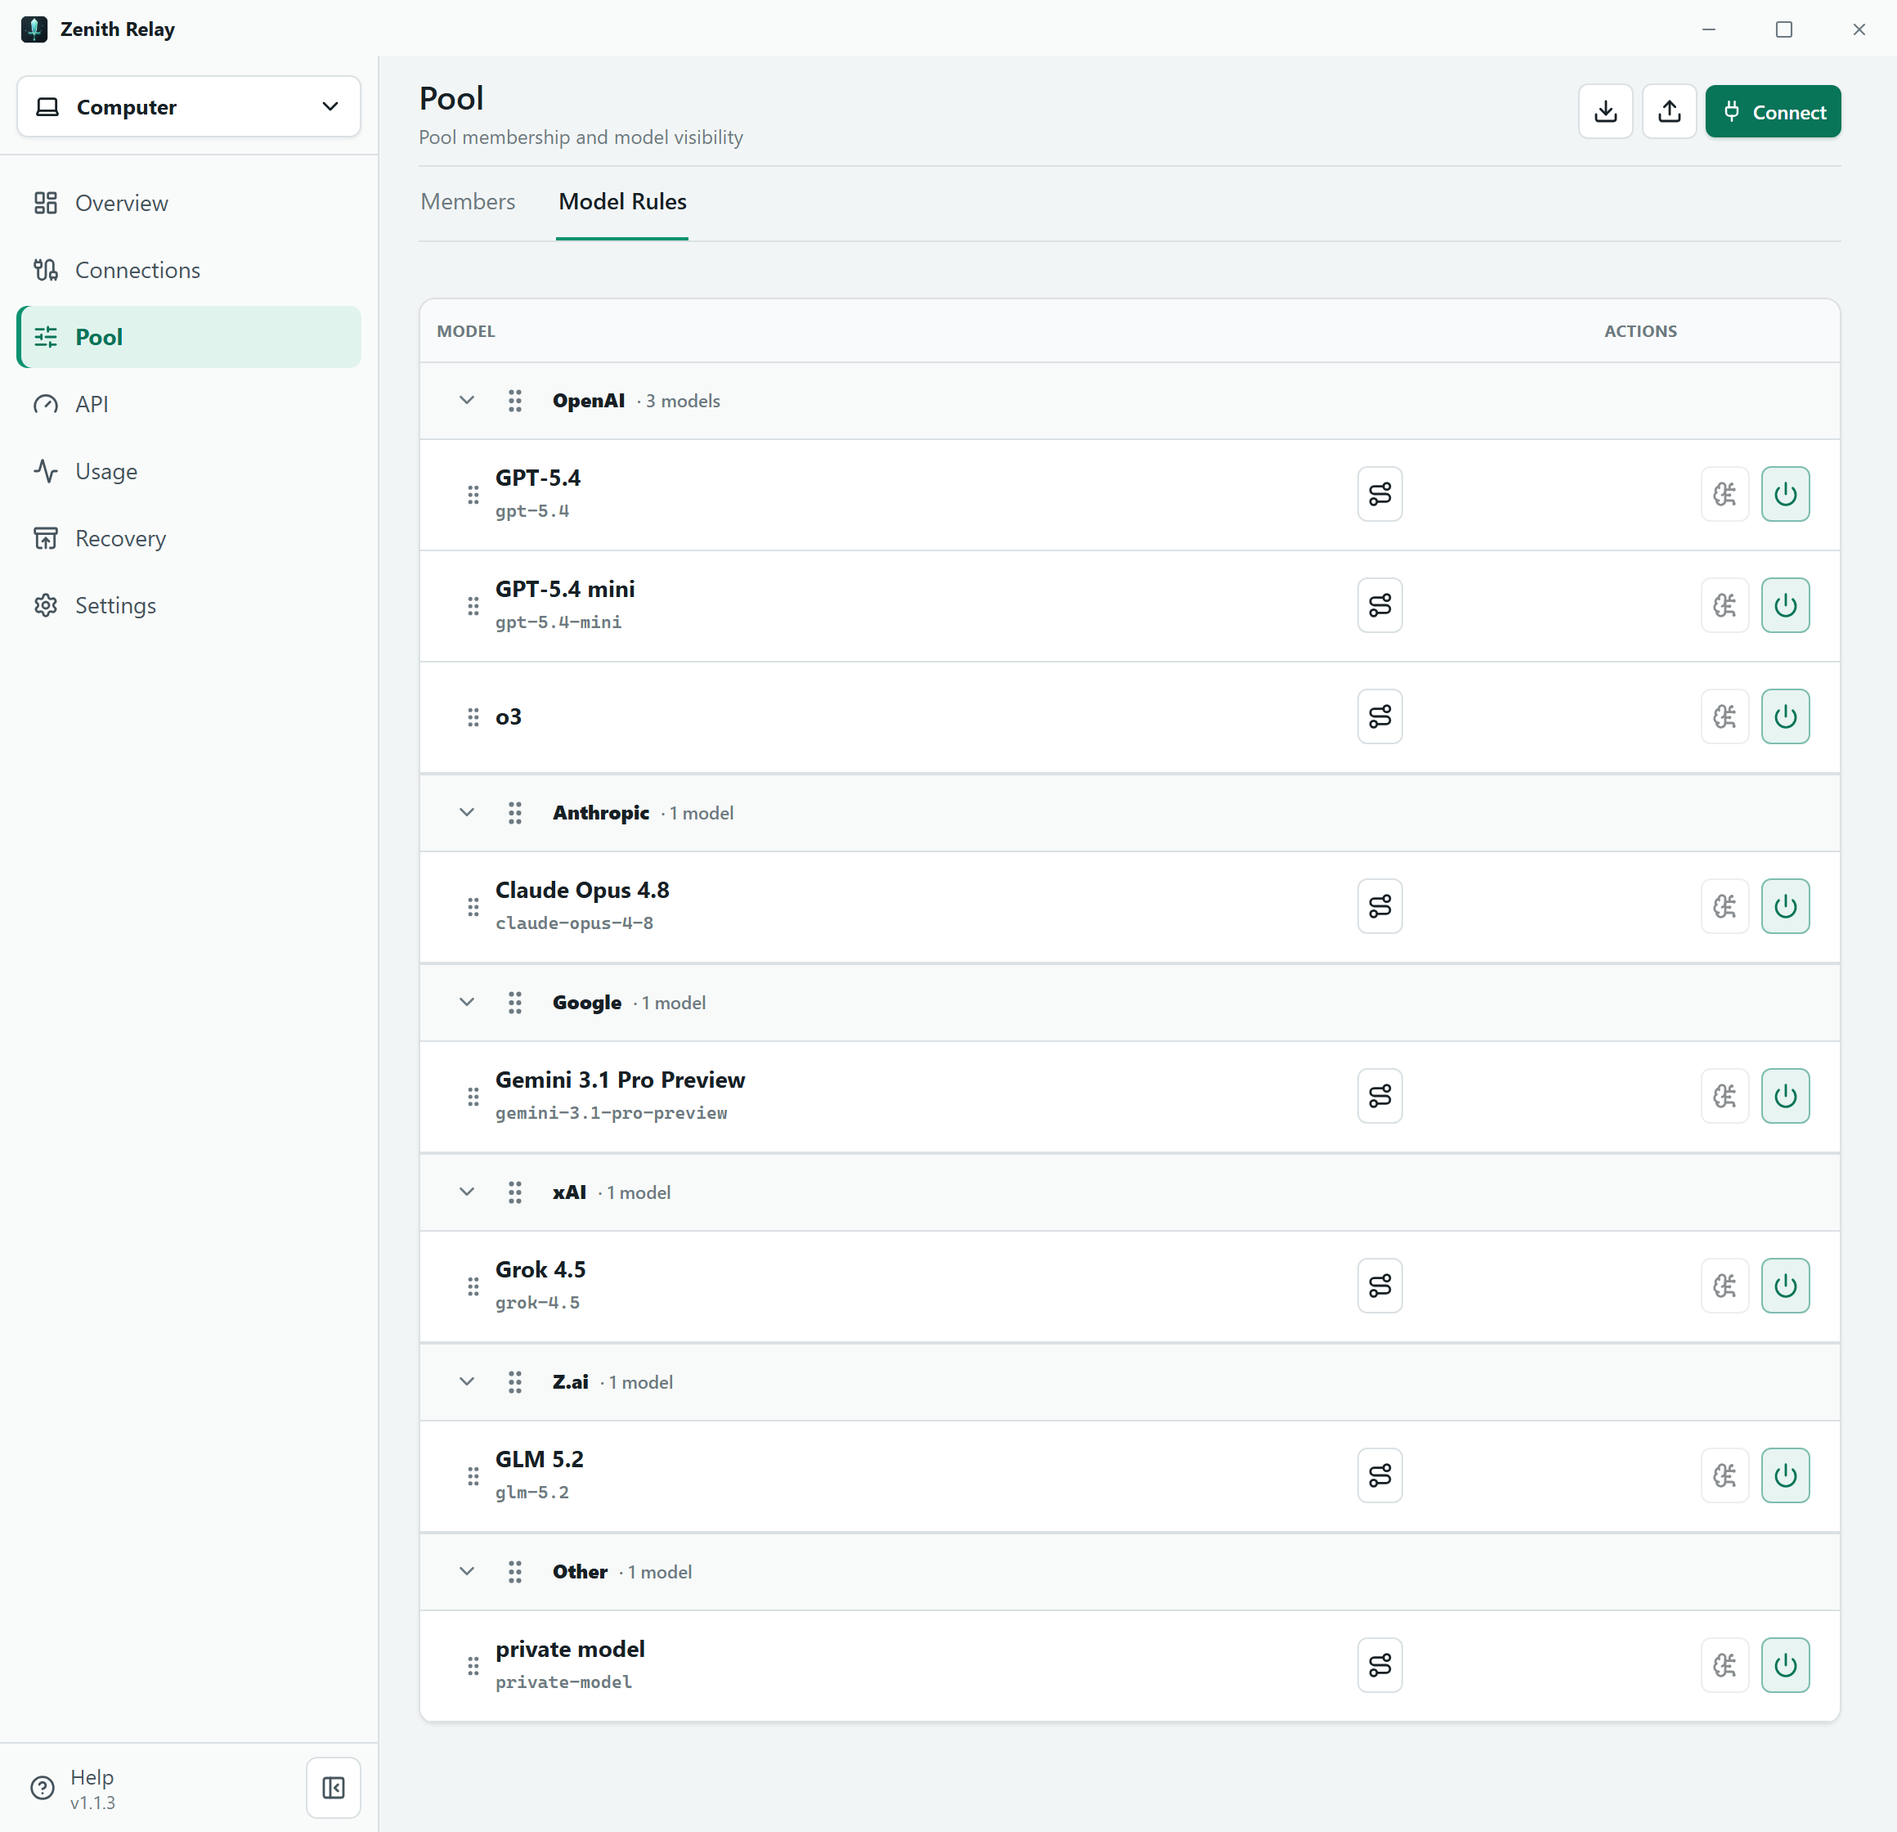
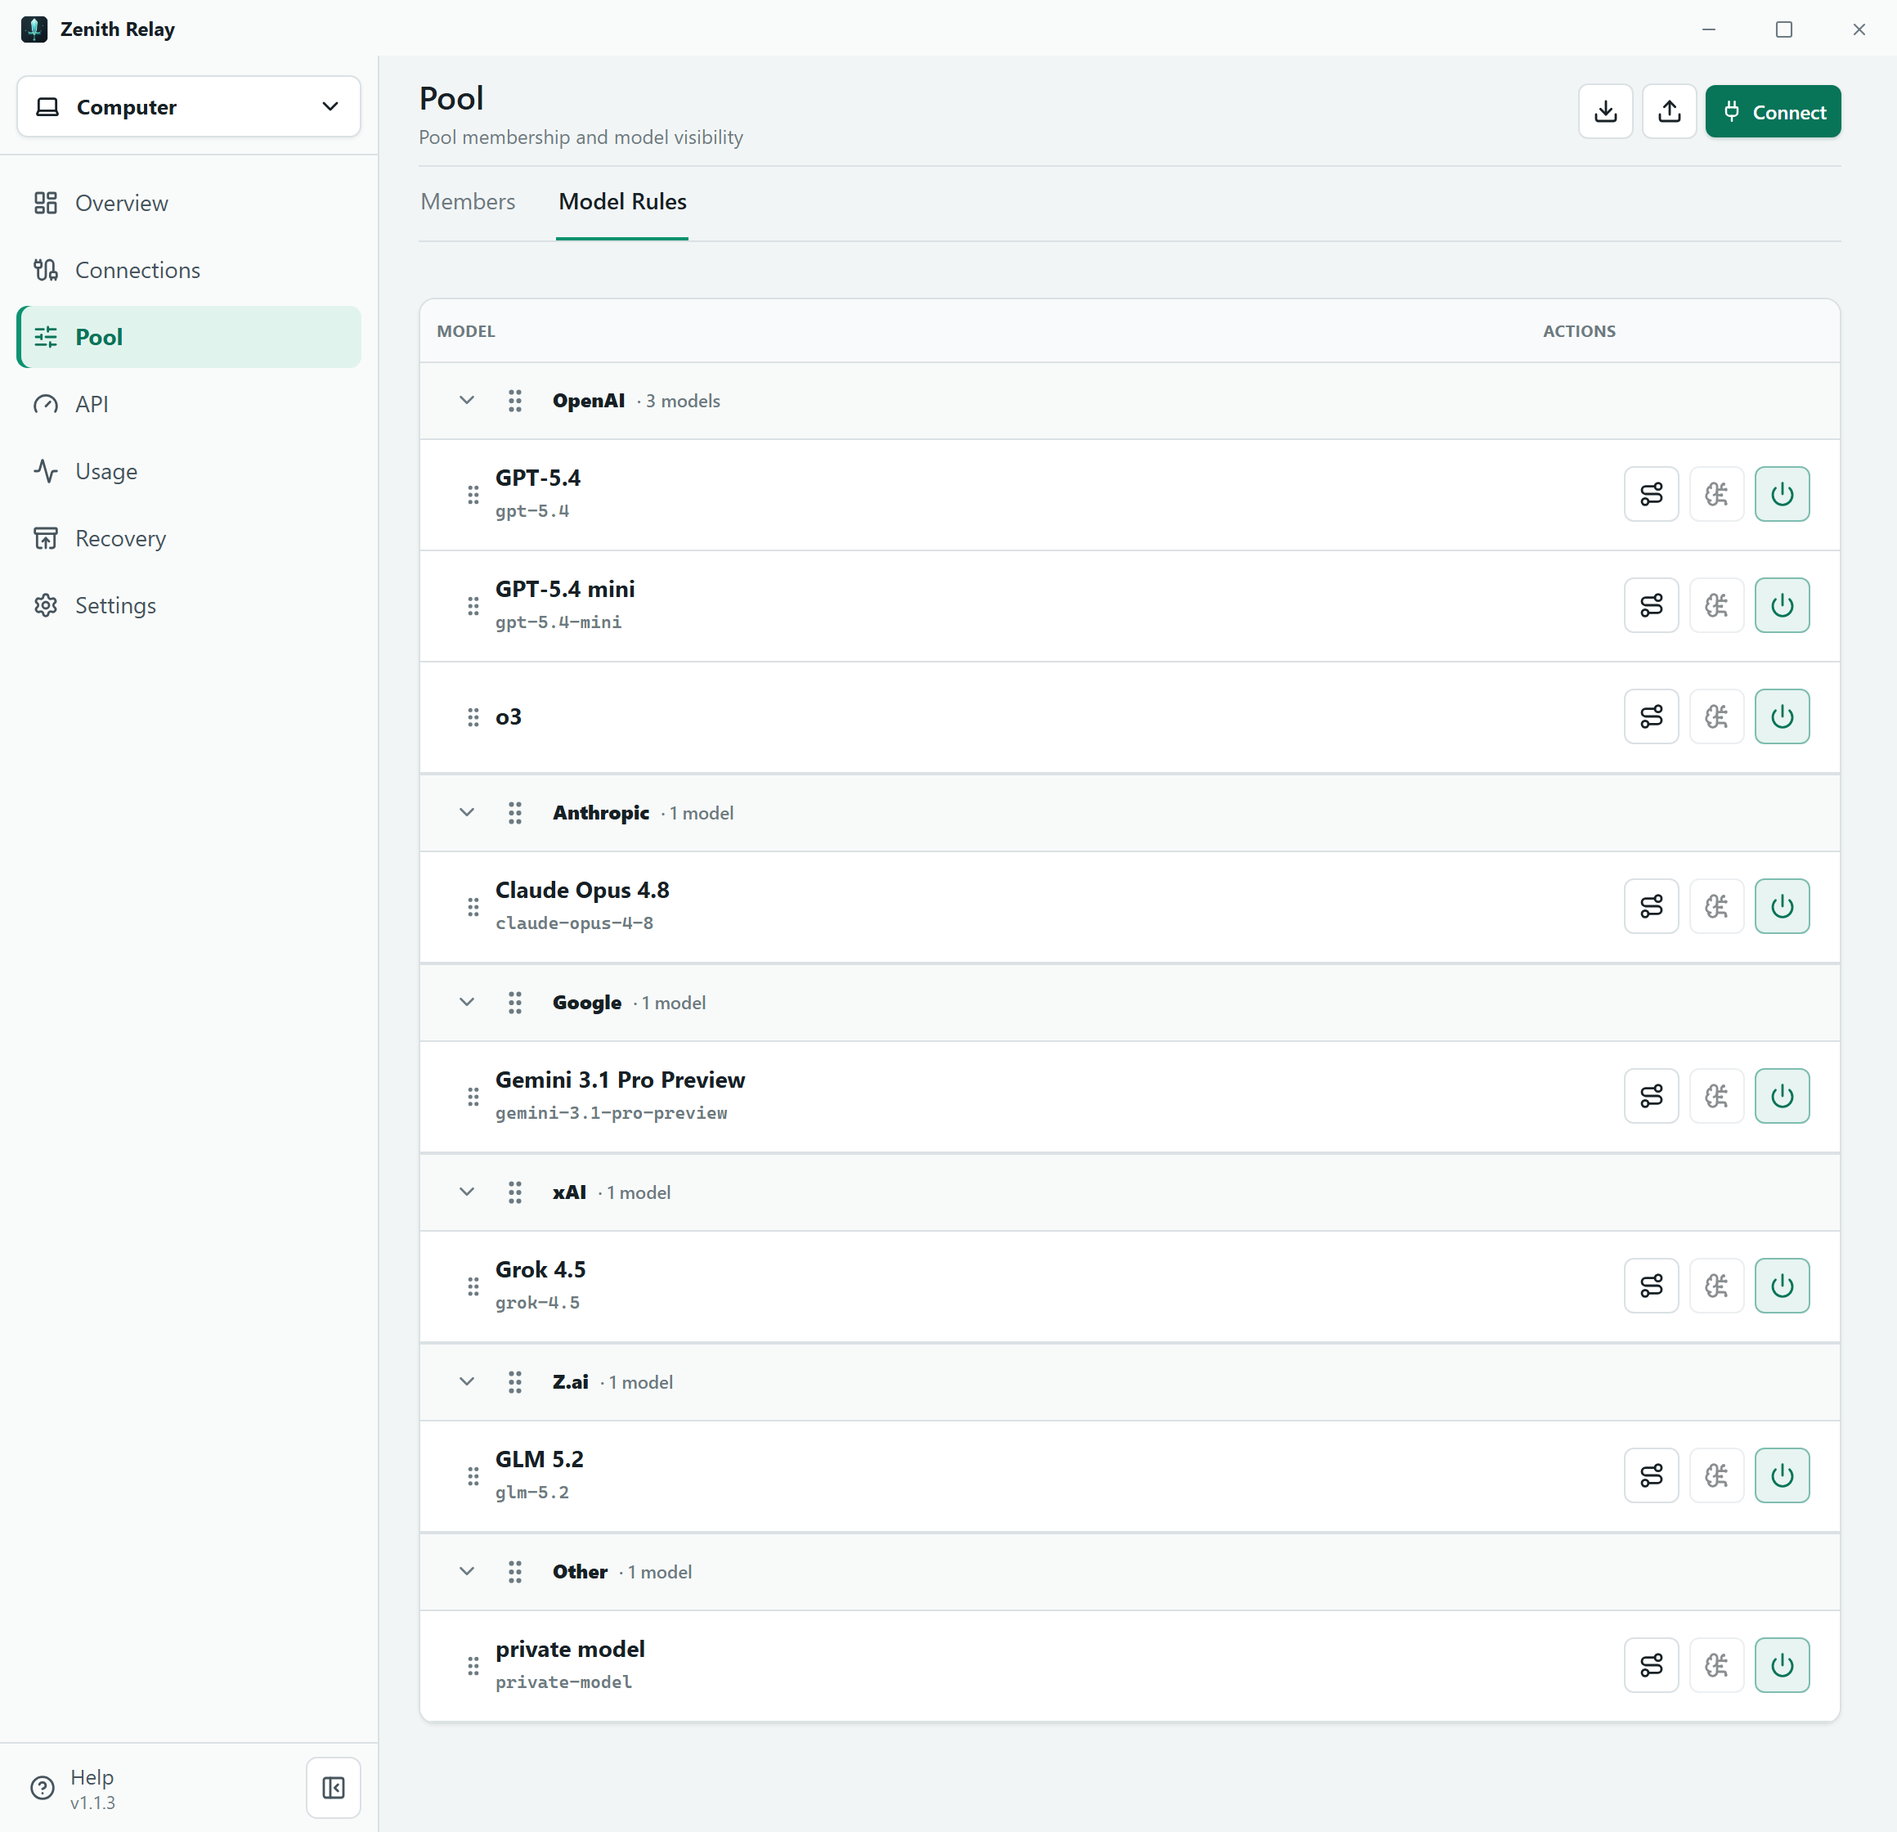
fix(relay-ui): align model rule actions across window sizes

diff --git a/src/src/features/relay/pages/pool/ModelRules.tsx b/src/src/features/relay/pages/pool/ModelRules.tsx
@@ -183,8 +183,23 @@ export function ModelRulesView() {
         && model.speedConfigurable === true
         && speedTiers.length > 1;
       return <tr key={model.id} data-model-id={model.id} data-enabled={model.enabled ? "true" : "false"} data-drop-target={dropModelId === model.id ? "true" : undefined} className={dragModelId === model.id ? "model-dragging" : undefined} draggable onPointerDown={(event) => startPointerDrag(event, "model", model.id)} onDragStart={(event) => startModelDrag(event, model.id)} onDragEnd={() => { setDragModelId(null); setDropModelId(null); }} onDragOver={(event) => { event.preventDefault(); setDropModelId(dragModelId && dragModelId !== model.id ? model.id : null); }} onDrop={() => { if (dragModelId) reorderModels(dragModelId, model.id); setDragModelId(null); setDropModelId(null); }}>
-        <td data-column="model"><button className="model-rule-drag-handle" type="button" aria-label={t("models.dragModel", { model: displayName })} data-relay-tooltip={t("models.dragModel", { model: displayName })} onPointerDown={(event) => startPointerDrag(event, "model", model.id)}><GripVertical aria-hidden /></button><div className="model-rule-identity"><strong data-relay-tooltip={displayName}>{displayName}</strong>{displayName !== model.id ? <code data-relay-tooltip={model.id}>{model.id}</code> : null}</div><IconButton className="model-protocol-button" label={t("models.viewProtocols", { model: model.id })} icon={<Route aria-hidden />} onClick={() => setProtocolModel(model)} /></td>
-                <td data-column="actions"><div className="model-rule-actions"><span className="model-rule-secondary-actions"><IconButton data-model-reasoning-edit={model.id} label={t(canEditReasoning ? "models.editReasoning" : "models.viewReasoning", { model: model.id })} icon={<BrainCircuit aria-hidden />} disabled={!hasReasoningModes} onClick={() => setReasoningModel(model)} />{canEditSpeed ? <span className="model-speed-toggle" data-speed-tier={speedTier} data-model-speed-select={model.id}><OptionMenu className="model-speed-select" label={`${t("pool.serviceTier")}: ${t(`pool.serviceTiers.${speedTier}`)}`} value={speedTier} icon={<Zap aria-hidden />} disabled={busy === `model-speed-${model.id}`} onChange={(value) => { const nextTier = value as DefaultServiceTier; void perform(`model-speed-${model.id}`, () => mode === "local" ? relayCommands.setModelServiceTier(model.id, nextTier) : relayCommands.remoteAction({ type: "set_model_service_tier" }, { modelId: model.id, serviceTier: nextTier }), "feedback.saved"); }} options={speedTiers.map((value) => ({ value, label: t(`pool.serviceTiers.${value}`) }))} /></span> : null}</span><IconButton data-model-toggle={model.id} label={toggleLabel} icon={toggling ? <Loader2 className="spin" aria-hidden /> : <Power aria-hidden />} className="model-toggle" aria-pressed={model.enabled} disabled={toggling} onClick={() => void toggleModel(model)} /></div></td>
+        <td data-column="model"><button className="model-rule-drag-handle" type="button" aria-label={t("models.dragModel", { model: displayName })} data-relay-tooltip={t("models.dragModel", { model: displayName })} onPointerDown={(event) => startPointerDrag(event, "model", model.id)}><GripVertical aria-hidden /></button><div className="model-rule-identity"><strong data-relay-tooltip={displayName}>{displayName}</strong>{displayName !== model.id ? <code data-relay-tooltip={model.id}>{model.id}</code> : null}</div></td>
+        <td data-column="actions"><div className="model-rule-actions">
+          <IconButton className="model-protocol-button" label={t("models.viewProtocols", { model: model.id })} icon={<Route aria-hidden />} onClick={() => setProtocolModel(model)} />
+          <IconButton data-model-reasoning-edit={model.id} label={t(canEditReasoning ? "models.editReasoning" : "models.viewReasoning", { model: model.id })} icon={<BrainCircuit aria-hidden />} disabled={!hasReasoningModes} onClick={() => setReasoningModel(model)} />
+          {canEditSpeed ? <span className="model-speed-toggle" data-speed-tier={speedTier} data-model-speed-select={model.id} data-relay-tooltip={`${t("pool.serviceTier")}: ${t(`pool.serviceTiers.${speedTier}`)}`}>
+            <OptionMenu className="model-speed-select" label={t("pool.serviceTier")} value={speedTier} icon={<Zap aria-hidden />} disabled={busy === `model-speed-${model.id}`}
+              onChange={(value) => {
+                const nextTier = value as DefaultServiceTier;
+                void perform(`model-speed-${model.id}`, () => mode === "local"
+                  ? relayCommands.setModelServiceTier(model.id, nextTier)
+                  : relayCommands.remoteAction({ type: "set_model_service_tier" }, { modelId: model.id, serviceTier: nextTier }), "feedback.saved");
+              }}
+              options={speedTiers.map((value) => ({ value, label: t(`pool.serviceTiers.${value}`) }))}
+            />
+          </span> : null}
+          <IconButton data-model-toggle={model.id} label={toggleLabel} icon={toggling ? <Loader2 className="spin" aria-hidden /> : <Power aria-hidden />} className="model-toggle" aria-pressed={model.enabled} disabled={toggling} onClick={() => void toggleModel(model)} />
+        </div></td>
       </tr>;
       })}</tbody>;
       })}

diff --git a/src/tests/e2e/model-rule-actions.spec.ts b/src/tests/e2e/model-rule-actions.spec.ts
@@ -1,0 +1,43 @@
+import { expect, test } from "../bun-playwright";
+import { installTauriMock } from "./tauri-mock";
+
+for (const width of [1160, 840, 390]) {
+  for (const theme of ["light", "dark"] as const) {
+    test(`model actions form one aligned group in ${theme} at ${width}px`, async ({ page }, testInfo) => {
+      await page.setViewportSize({ width, height: 844 });
+      await installTauriMock(page, { locale: "ru", mode: "local", theme, populated: true, mixedModels: true, modelSpeed: { "gpt-5.4": "ultrafast" } });
+      await page.goto("/");
+      await page.getByRole("button", { name: "Пул", exact: true }).click();
+      await page.getByRole("tab", { name: "Правила моделей", exact: true }).click();
+      const row = page.locator('[data-model-id="gpt-5.4"]');
+      const actions = row.locator('[data-column="actions"]');
+      await expect(actions.locator(".model-protocol-button")).toBeVisible();
+      await expect(actions.locator("button")).toHaveCount(4);
+      if (width <= 600) {
+        await expect(row.locator(".model-rule-identity")).toBeInViewport();
+        await expect(actions.locator("button").first()).toBeInViewport();
+        await expect(actions.locator("button").last()).toBeInViewport();
+        expect(await page.locator(".model-rules > .relay-table-wrap").evaluate((wrapper) => wrapper.scrollWidth <= wrapper.clientWidth)).toBe(true);
+      }
+      expect(await actions.locator(".relay-option-trigger").evaluate((button) => [...button.querySelectorAll("span")].every((span) => span.scrollWidth <= span.clientWidth + 1))).toBe(true);
+      expect(await actions.evaluate((cell) => {
+        const rect = cell.getBoundingClientRect();
+        const buttons = [...cell.querySelectorAll("button")].map((button) => button.getBoundingClientRect());
+        return buttons.every((button, i) => Math.abs(button.height - 34) < 1
+          && Math.abs(button.top - buttons[0].top) < 1
+          && button.left >= rect.left && button.right <= rect.right
+          && (i === 0 || Math.abs(button.left - buttons[i - 1].right - 6) < 1));
+      })).toBe(true);
+      expect(await row.locator(".model-rule-identity").evaluate((identity) => identity.getBoundingClientRect().right <= identity.parentElement!.getBoundingClientRect().right)).toBe(true);
+      await actions.locator(".model-protocol-button").click();
+      await expect(page.getByRole("dialog")).toBeVisible();
+      await page.keyboard.press("Escape");
+      await actions.locator(".model-speed-select button").click();
+      await expect(page.getByRole("listbox")).toBeInViewport();
+      await expect(page.getByRole("option")).toHaveCount(3);
+      await page.keyboard.press("Escape");
+      await page.locator(".model-rules > .relay-table-wrap").screenshot({ path: testInfo.outputPath("model-actions.png"), animations: "disabled" });
+      expect(await page.evaluate(() => document.documentElement.scrollWidth <= innerWidth)).toBe(true);
+    });
+  }
+}

diff --git a/src/src/styles/pages/models.css b/src/src/styles/pages/models.css
@@ -50,8 +50,7 @@
   table-layout: fixed;
 }
 
-.model-rules-table col[data-column="model"] { width: 72%; }
-.model-rules-table col[data-column="actions"] { width: 28%; }
+.model-rules-table col[data-column="actions"] { width: 318px; }
 
 .model-rules-table th,
 .model-rules-table td {
@@ -189,7 +188,7 @@
 
 .model-rule-drag-handle + .model-rule-identity {
   display: inline-grid;
-  width: calc(100% - 72px);
+  width: calc(100% - 32px);
   vertical-align: middle;
 }
 
@@ -391,17 +390,13 @@
   display: flex;
   align-items: center;
   justify-content: flex-end;
-  gap: 7px;
-}
-
-.model-rule-secondary-actions {
-  display: inline-flex;
-  gap: 5px;
+  gap: 6px;
 }
 
 .model-rule-actions .relay-icon-button {
-  width: 30px;
-  height: 30px;
+  width: 34px;
+  height: 34px;
+  flex: 0 0 34px;
   border-radius: 6px;
 }
 
@@ -640,13 +635,13 @@
 
 .model-speed-select,
 .model-speed-select .relay-option-trigger {
-  width: 124px;
+  width: 164px;
   min-width: 0;
 }
 
 .model-speed-select .relay-option-trigger {
-  min-height: 30px;
-  height: 30px;
+  min-height: 34px;
+  height: 34px;
   padding: 3px 6px;
   border-radius: 6px;
   border-color: var(--relay-border-strong);
@@ -720,30 +715,34 @@
     font-size: 11px;
   }
 
-  .model-rule-actions {
-    gap: 3px;
-  }
+}
 
-  .model-rule-secondary-actions {
-    gap: 3px;
+@media (max-width: 600px) {
+  .relay-shell[data-page="pool"] .model-rules .model-rules-table { display: block; min-width: 0; }
+  .model-rules-table colgroup,
+  .model-rules-table thead { display: none; }
+  .model-rules-table tbody,
+  .model-rules-table tbody tr,
+  .model-rules-table .model-group-row th { display: block; min-height: 0; }
+  .model-rules-table tbody tr[data-model-id] td {
+    display: block;
+    height: auto;
+    min-height: 0;
+    padding: 10px 12px;
   }
-
-  .model-rule-actions .relay-icon-button {
-    width: 28px;
-    height: 28px;
-  }
+  .model-rules-table tbody tr[data-model-id] td:first-child { border-bottom: 0; }
+  .model-rules-table tbody tr[data-model-id] td:last-child { padding-top: 0; }
+  .model-speed-select,
+  .model-speed-select .relay-option-trigger { width: 34px; }
+  .model-speed-select .relay-option-trigger { justify-content: center; padding: 0; }
+  .model-speed-select .relay-option-trigger > span,
+  .model-speed-select .relay-option-trigger > svg:last-child { display: none; }
 }
 
 .relay-dialog.member-policy-dialog {
   width: min(640px, 100%);
 }
 
-.model-protocol-button {
-  width: 28px;
-  height: 28px;
-  margin-left: 8px;
-  vertical-align: middle;
-}
 
 .relay-dialog.model-protocol-dialog {
   width: min(680px, 100%);

diff --git a/src/tests/e2e/operations.spec.ts b/src/tests/e2e/operations.spec.ts
@@ -3134,11 +3134,13 @@ for (const mode of ["local", "remote"] as const) {
     const speedTrigger = speed.locator(".relay-option-trigger");
     await expect(speedTrigger).toBeVisible();
     await expect(speed).toBeVisible();
-    await expect(model.locator(".model-rule-secondary-actions")).toHaveCSS("opacity", "1");
-    expect(await model.locator(".model-rule-secondary-actions > *").evaluateAll((controls) => controls.map((control) => {
+    await expect(model.locator(".model-rule-actions")).toHaveCSS("opacity", "1");
+    expect(await model.locator(".model-rule-actions > *").evaluateAll((controls) => controls.map((control) => {
+      if (control.matches(".model-protocol-button")) return "protocol";
+      if (control.matches(".model-toggle")) return "enabled";
       if (control.matches(".model-speed-toggle")) return "speed";
       return control.matches("[data-model-reasoning-edit]") || control.querySelector("[data-model-reasoning-edit]") ? "reasoning" : "unknown";
-    }))).toEqual(["reasoning", "speed"]);
+    }))).toEqual(["protocol", "reasoning", "speed", "enabled"]);
     await expect(speed).toHaveAttribute("data-speed-tier", "standard");
     await expect(speedTrigger).toHaveAttribute("data-value", "standard");
     await speedTrigger.click();

diff --git a/docs/releases/CHANGELOG.md b/docs/releases/CHANGELOG.md
@@ -106,6 +106,8 @@ release entries are kept concise and link to the corresponding tag.
   references an item ID or omits a call ID. Results are matched by kind and
   namespace without deleting history or guessing between parallel calls.
   HTTP, streaming and WebSocket use the same bounded recovery. ([#74](https://github.com/F0RLE/zenith-relay/pull/74))
+- Model rule actions share one aligned group with consistently sized format,
+  reasoning, speed and enable controls. ([#74](https://github.com/F0RLE/zenith-relay/pull/74))
 - Provider price fields keep currency symbols and values vertically centered,
   including while editing, without an overflowing inner input. ([#74](https://github.com/F0RLE/zenith-relay/pull/74))
 - Multiple routes for one member share rotation weight and request capacity.
